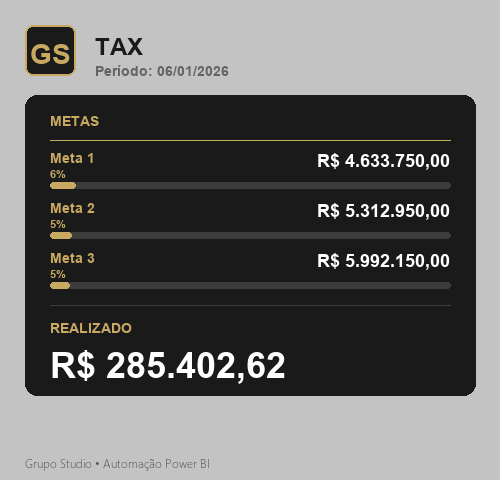
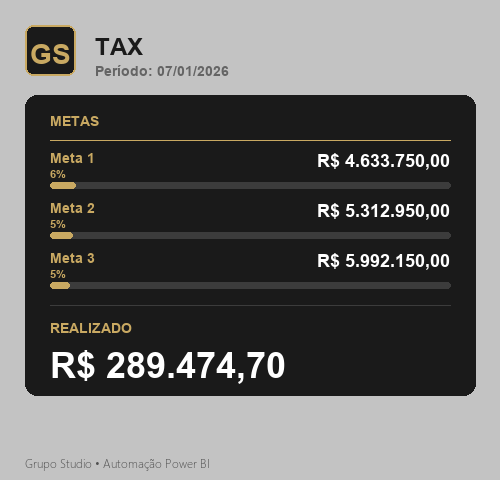
feat: Adiciona campo Valor_Sem_Categoria em Receitas

Changed region(s): [[0.39, 0.7188, 0.57, 0.8125], [0.3, 0.7188, 0.33, 0.7812], [0.33, 0.125, 0.36, 0.1562]]

diff --git a/powerbi_data.py b/powerbi_data.py
@@ -226,7 +226,7 @@ class PowerBIDataFetcher:
                 "Operacional": {"pct_meta1": 0, "pct_meta2": 0, "pct_meta3": 0}}
     
     def fetch_receitas(self):
-        """Busca valores de receitas (Outras Receitas, Intercompany) da tabela Medidas"""
+        """Busca valores de receitas (Outras Receitas, Intercompany, Não Identificadas) da tabela Medidas"""
         now = datetime.now()
         start_date = datetime(now.year, now.month, 1)
         # Calcular último dia do mês
@@ -243,7 +243,9 @@ class PowerBIDataFetcher:
         CALCULATETABLE(
             ROW(
                 "OutrasReceitas", [Valor_OutrasReceitas],
-                "InterCompany", [Valor_InterCompany]
+                "InterCompany", [Valor_InterCompany],
+                "NaoIdentificada", [Valor_NaoIdentificada],
+                "SemCategoria", [Valor_Sem_Categoria]
             ),
             DATESBETWEEN('Calendario'[Date], {date_filter_start}, {date_filter_end})
         )
@@ -256,11 +258,13 @@ class PowerBIDataFetcher:
                 return {
                     "outras": row.get("[OutrasReceitas]") or 0,
                     "intercompany": row.get("[InterCompany]") or 0,
+                    "nao_identificadas": row.get("[NaoIdentificada]") or 0,
+                    "sem_categoria": row.get("[SemCategoria]") or 0,
                 }
         except Exception as e:
             print(f"Erro ao buscar receitas: {e}")
         
-        return {"outras": 0, "intercompany": 0}
+        return {"outras": 0, "intercompany": 0, "nao_identificadas": 0, "sem_categoria": 0}
     
     def fetch_metas_departamento(self, tabela, prefixo):
         """Busca metas de um departamento específico"""
@@ -377,9 +381,9 @@ class PowerBIDataFetcher:
             "pct_meta1": pct_gs.get("pct_meta1", 0),
             "pct_meta2": pct_gs.get("pct_meta2", 0),
             "pct_meta3": pct_gs.get("pct_meta3", 0),
-            "realizado": format_currency(sum(realizados.values())),
+            "realizado": format_currency(realizados.get("Comercial", 0) + realizados.get("Operacional", 0)),
             "percent": format_percent(
-                (sum(realizados.values()) / metas_gs.get("meta1", 1)) * 100 
+                ((realizados.get("Comercial", 0) + realizados.get("Operacional", 0)) / metas_gs.get("meta1", 1)) * 100 
                 if metas_gs.get("meta1", 0) > 0 else 0
             )
         }
@@ -452,7 +456,8 @@ class PowerBIDataFetcher:
         receitas = {
             "outras": format_currency(receitas_raw.get("outras", 0)),
             "intercompany": format_currency(receitas_raw.get("intercompany", 0)),
-            "nao_identificadas": "R$ 285.403"  # Valor fixo por enquanto - medida não encontrada no Power BI
+            "nao_identificadas": format_currency(receitas_raw.get("nao_identificadas", 0)),
+            "sem_categoria": format_currency(receitas_raw.get("sem_categoria", 0))
         }
         
         print(f"OK - Dados de {len(departamentos)} departamentos obtidos")
@@ -462,11 +467,14 @@ class PowerBIDataFetcher:
 # Teste
 if __name__ == "__main__":
     fetcher = PowerBIDataFetcher()
-    total, deps = fetcher.fetch_all_data()
+    total, deps, receitas = fetcher.fetch_all_data()
     
     print("\n" + "=" * 60)
     print("TOTAL GS:")
     print(json.dumps(total, indent=2, ensure_ascii=False))
+
+    print("\nRECEITAS:")
+    print(json.dumps(receitas, indent=2, ensure_ascii=False))
     
     print("\nDEPARTAMENTOS:")
     for d in deps:

diff --git a/image_generator.py b/image_generator.py
@@ -353,11 +353,11 @@ class ImageGenerator:
             title_w = title_bbox[2] - title_bbox[0]
             draw.text((margin + (rec_w - title_w) / 2, rec_y + 12), title_text, font=font_title, fill=self.accent_color)
             
-            # 3 colunas centralizadas: Outras Receitas, Intercompany, Não Identificadas
-            col_w = rec_w // 3
+            # 4 colunas centralizadas: Outras Receitas, Intercompany, Não Identificadas, Sem Categoria
+            col_w = rec_w // 4
             col_y = rec_y + 45
             
-            # Coluna 1: Outras Receitas (centralizada na primeira terça parte)
+            # Coluna 1: Outras Receitas
             outras = receitas.get("outras", "R$ 0,00")
             label1 = "Outras Receitas:"
             bbox1 = draw.textbbox((0, 0), label1, font=font_small)
@@ -368,7 +368,7 @@ class ImageGenerator:
             vw1 = bbox1v[2] - bbox1v[0]
             draw.text((col1_center - vw1 // 2, col_y + 16), outras, font=font_value, fill=self.text_color)
             
-            # Coluna 2: Intercompany (centralizada na segunda terça parte)
+            # Coluna 2: Intercompany
             intercompany = receitas.get("intercompany", "R$ 0,00")
             label2 = "Intercompany:"
             bbox2 = draw.textbbox((0, 0), label2, font=font_small)
@@ -379,7 +379,7 @@ class ImageGenerator:
             vw2 = bbox2v[2] - bbox2v[0]
             draw.text((col2_center - vw2 // 2, col_y + 16), intercompany, font=font_value, fill=self.text_color)
             
-            # Coluna 3: Não Identificadas (centralizada na terceira terça parte)
+            # Coluna 3: Não Identificadas
             nao_ident = receitas.get("nao_identificadas", "R$ 0,00")
             label3 = "Não Identificadas:"
             bbox3 = draw.textbbox((0, 0), label3, font=font_small)
@@ -389,6 +389,17 @@ class ImageGenerator:
             bbox3v = draw.textbbox((0, 0), nao_ident, font=font_value)
             vw3 = bbox3v[2] - bbox3v[0]
             draw.text((col3_center - vw3 // 2, col_y + 16), nao_ident, font=font_value, fill=self.text_color)
+            
+            # Coluna 4: Sem Categoria
+            sem_cat = receitas.get("sem_categoria", "R$ 0,00")
+            label4 = "Sem Categoria:"
+            bbox4 = draw.textbbox((0, 0), label4, font=font_small)
+            lw4 = bbox4[2] - bbox4[0]
+            col4_center = margin + col_w * 3 + col_w // 2
+            draw.text((col4_center - lw4 // 2, col_y), label4, font=font_small, fill=self.muted_text)
+            bbox4v = draw.textbbox((0, 0), sem_cat, font=font_value)
+            vw4 = bbox4v[2] - bbox4v[0]
+            draw.text((col4_center - vw4 // 2, col_y + 16), sem_cat, font=font_value, fill=self.text_color)
 
         img.save(output_path, "PNG")
         return output_path
@@ -659,7 +670,8 @@ if __name__ == "__main__":
         receitas = {
             "outras": "R$ 0,00",
             "intercompany": "R$ 0,00",
-            "nao_identificadas": "R$ 285.403"
+            "nao_identificadas": "R$ 285.403",
+            "sem_categoria": "R$ 15.000"
         }
     
     # Gerar imagem geral (metas_geral.png) na pasta images/

diff --git a/metas_automation.py b/metas_automation.py
@@ -56,16 +56,16 @@ class MetasAutomation:
         from powerbi_data import PowerBIDataFetcher
         
         fetcher = PowerBIDataFetcher()
-        total_gs, departamentos = fetcher.fetch_all_data()
+        total_gs, departamentos, receitas = fetcher.fetch_all_data()
         
         if total_gs and departamentos:
             print(f"   OK - Dados de {len(departamentos)} departamentos obtidos")
-            return total_gs, departamentos
+            return total_gs, departamentos, receitas
         else:
             print("   ERRO: Falha ao obter dados do Power BI")
-            return None, None
+            return None, None, None
     
-    def generate_images(self, total_gs, departamentos, periodo):
+    def generate_images(self, total_gs, departamentos, receitas, periodo):
         """Gera todas as imagens necessárias"""
         print(f"[{datetime.now().strftime('%H:%M:%S')}] Gerando imagens...")
         
@@ -77,6 +77,7 @@ class MetasAutomation:
             periodo=periodo,
             departamentos=departamentos,
             total_gs=total_gs,
+            receitas=receitas,
             output_path=geral_path
         )
         images["diretoria"] = geral_path
@@ -154,14 +155,14 @@ class MetasAutomation:
         print("=" * 60)
         
         # 1. Buscar dados
-        total_gs, departamentos = self.fetch_metas_data()
+        total_gs, departamentos, receitas = self.fetch_metas_data()
         if not departamentos:
             print("ERRO: Não foi possível obter dados")
             return False
         
         # 2. Gerar imagens
         periodo = self.get_periodo()
-        images = self.generate_images(total_gs, departamentos, periodo)
+        images = self.generate_images(total_gs, departamentos, receitas, periodo)
         
         # 3. Enviar para WhatsApp
         enviados, erros = self.send_to_whatsapp(images)
@@ -199,9 +200,9 @@ def main():
             # Apenas gerar imagens sem enviar
             print("Gerando imagens de exemplo...")
             periodo = automation.get_periodo()
-            total_gs, departamentos = automation.fetch_metas_data()
+            total_gs, departamentos, receitas = automation.fetch_metas_data()
             if departamentos:
-                images = automation.generate_images(total_gs, departamentos, periodo)
+                images = automation.generate_images(total_gs, departamentos, receitas, periodo)
                 print(f"\nImagens geradas em: {IMAGES_DIR}")
                 for key, path in images.items():
                     print(f"  - {key}: {path}")
